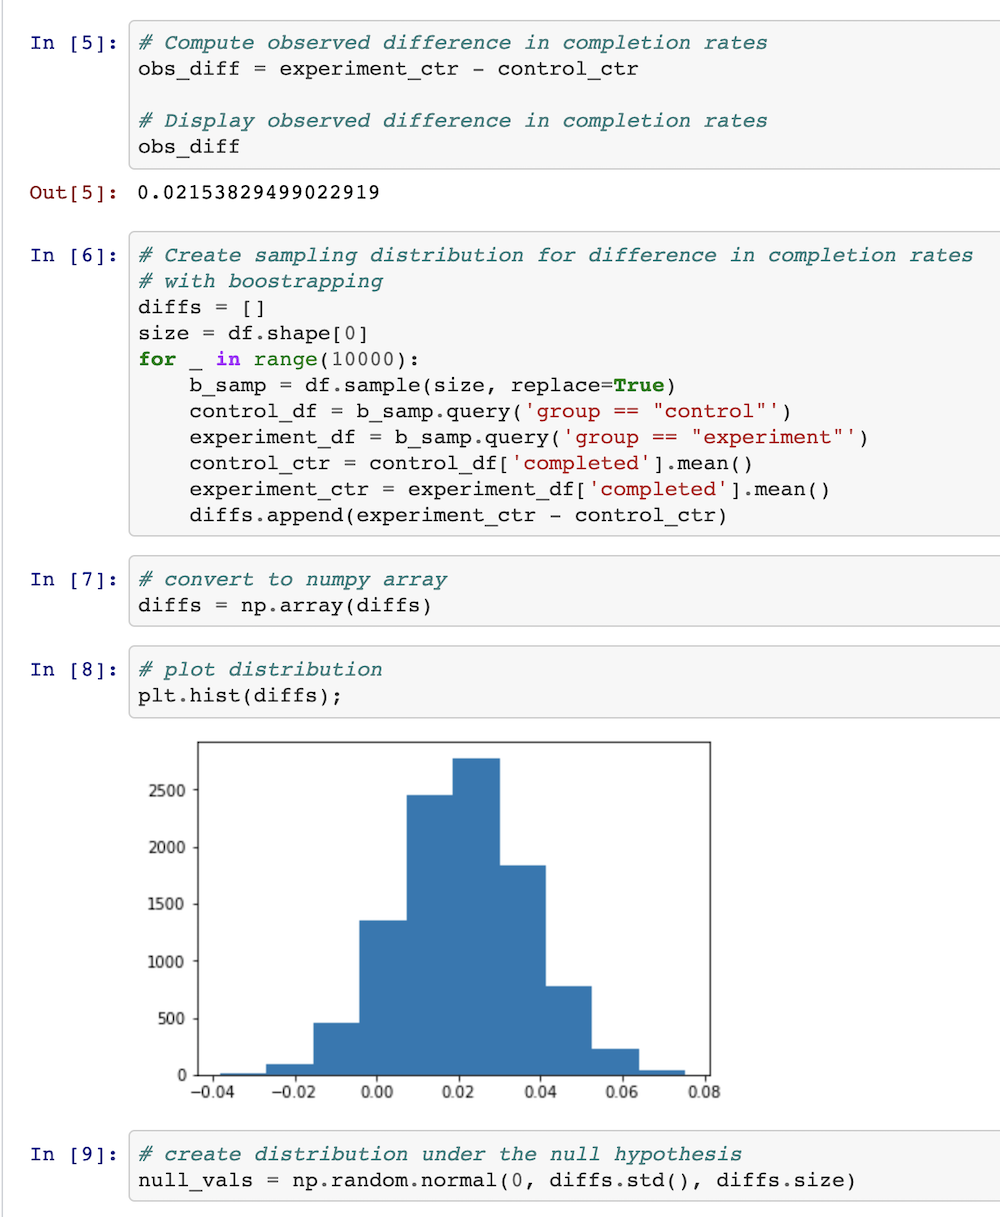
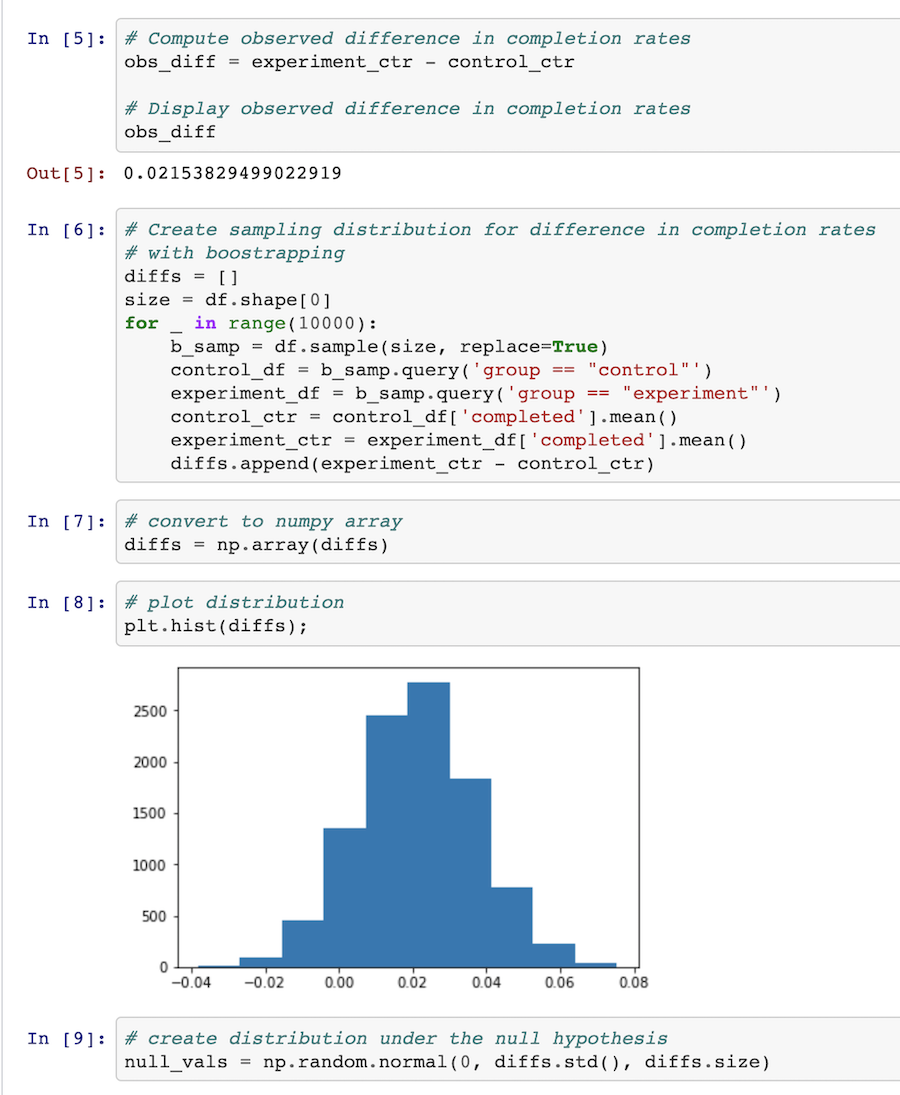
update syntax and image reduce size

diff --git a/index.html b/index.html
@@ -405,7 +405,7 @@
                 <div class="timeline-body">
                   <p class="text-muted">
                     <p>As of 2019, I work at Netflix in Content Knowledge Graph on the Data Engineering team! Here, I perform data specialist and analyst based functions, with a focus on entity resolution! Day to day, I'm working in SQL with Presto or Snowflake, creating scheduled audits in our data portal, understanding the power of the "yaml", PySpark, data manipulation, wrangling with Python, Pandas and Numpy, gaining greater knowledge in visualizations with seaborn, matplotlib and Tableau! In this position, I have a chance to work with our talented data scientists, stakeholders, and partners, along with our ML and data engineers on the CKG team, all of which is the most amazing part of this role!</p> <p>Back in 2018, I
-                    worked for two startups building Vue components, managing AWS EC2 instances, S3, security, permissions, VPC, coding with an open banking API, Mongo and much more! Earlier in 2018, I graduated from UCLA Extension with a Full Stack Developer certificate! That experience was incredible as I learned to create VR, MERN, MySQL, and JavaScript web applications while, obtaining a client for our beacon technology project. This was a pivotal as it helped me to learn about business needs and technical solutions! </p>
+                    worked f or two startups building Vue components, managing AWS EC2 instances, S3, security, permissions, VPC, coding with an open banking API, Mongo and much more! Earlier in 2018, I graduated from UCLA Extension with a Full Stack Developer certificate! That experience was incredible as I learned to create VR, MERN, MySQL, and JavaScript web applications while, obtaining a client for our beacon technology project. This was a pivotal as it helped me to learn about business needs and technical solutions! </p>
                     <p> In the near future, I'll enroll in the Udacity Neural Networks Nanodegree with hopes to build a wearable prototype by end of 2020!</p>
                   </p>
                 </div>
@@ -1304,7 +1304,7 @@
                     <img class="img-responsive img-centered" style="display: block; margin-left: auto; margin-right: auto;"
                     src="img/portfolio/facet.png" alt=""> 
                   <p> This includes projects from Udacity DSA Nanodegree! This program introduced me to concepts like measures of spread, and center, univariate, bivariate and multivariate charts, the Central Limit Theorum, confidence intervals and p-values, testing for the null hypothesis and what statistical significance is, while also diving into regression, linear, multi and logistical, using Python's statsmodels to build OLS, and Logit statistical summaries! </p>
-                  <p> Along this journey I've become entirely proficient in Pandas, while still tackling the depths of Numpy including understanding vectorization, and matrices. Building visualizations is the most fascinating and fun and I have to say my favorite is visual tool is seaborn albeit some  limitations, while of course matplotlib is next in line, additionally, a new platform like Plotly is also useful and of course at work I have access to Tableau which is very powerful as well especially for delivering dashoboards that tell a story about your data to stakeholders, partners, and user of your data! I am quite in love with it all! 
+                  <p> Along this journey I've become entirely proficient in Pandas, while still tackling the depths of Numpy including understanding vectorization, and matrices. Building visualizations is the most fascinating and fun and I have to say my favorite is visual tool is seaborn albeit some  limitations, while of course matplotlib is next in line, additionally, a new platform like Plotly is also useful and of course at work I have access to Tableau which is very powerful as well especially for delivering dashboards that tell a story about your data to stakeholders, partners, and user of your data! I am quite in love with it all! 
                     </p>
                   <br>
                   <strong>My Udacity DA Nanodegree projects: the second one
